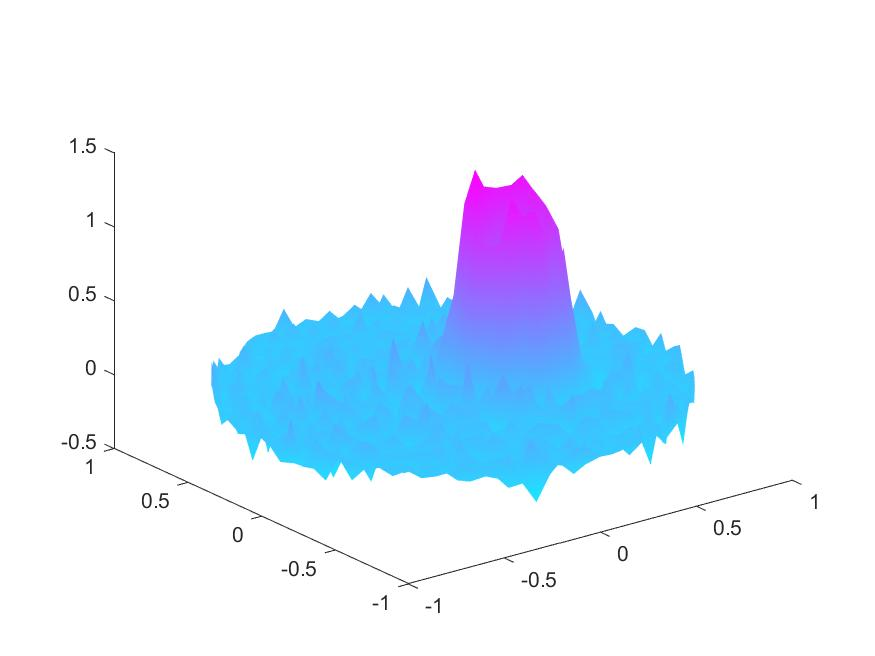
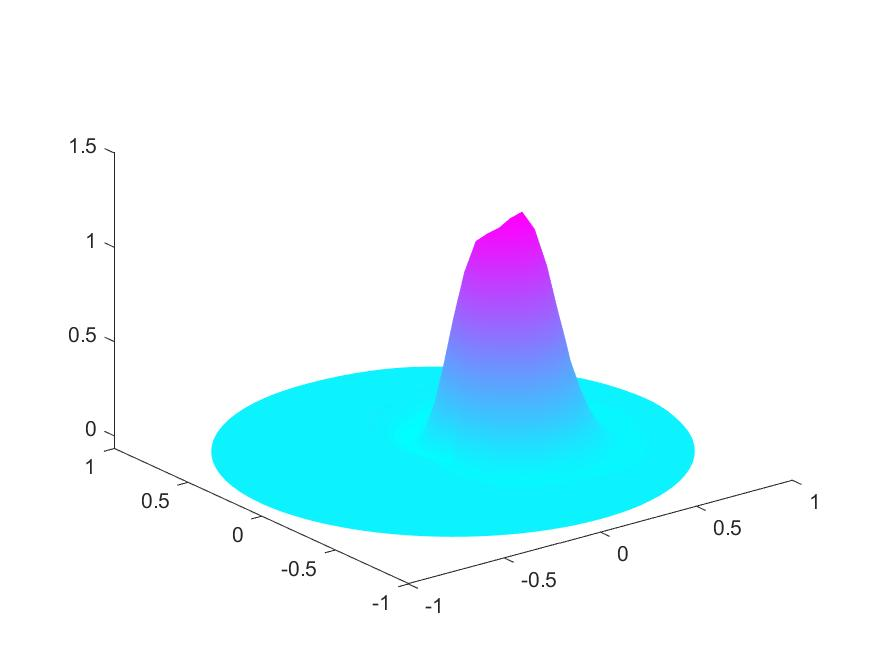
fixed LS...? or maybe not, dunno

diff --git a/FEM_Assign1/Code/MassMatrixLS.m b/FEM_Assign1/Code/MassMatrixLS.m
@@ -1,7 +1,7 @@
 function massMatrix = MassMatrixLS(p,t)
     numNodes = size(p,2);
     numTriangles = size(t,2);
-    massMatrix = sparse(numNodes,numNodes);
+    massMatrix = sparse(numNodes, numNodes);
     
     for i=1:numTriangles
         nodeIndices = t(1:3,i);
@@ -9,11 +9,11 @@ function massMatrix = MassMatrixLS(p,t)
         y=p(2,nodeIndices);
 
         [area,b,c] = HatGradients(x,y);
-    
+        
         bxmid = mean(-2*pi*y);
         bymid = mean(2*pi*x);
     
         subMatrix=ones(3,1)*(bxmid*b + bymid*c)'*area/3;
-        massMatrix(nodeIndices,nodeIndices) = massMatrix(nodeIndices,nodeIndices) + subMatrix;
+        massMatrix(nodeIndices,nodeIndices) = massMatrix(nodeIndices,nodeIndices) + subMatrix';
     end
 end

diff --git a/FEM_Assign1/Code/RunPart2.m b/FEM_Assign1/Code/RunPart2.m
@@ -1,8 +1,8 @@
 Problem11();
 close all;
-%Problem12();
+Problem12();
 close all;
-%Problem13();
+Problem13();
 close all;
 
 function Problem11()
@@ -117,9 +117,9 @@ function [U, M, p, t] = RunSimulationGLS(meshSize, InitialData)
 
     xi = CreateInitialData(p, InitialData);
 
-    delta = 1;
-    M = 0*MassMatrixGFEM(p,t) + delta*MassMatrixLS(p,t);
-    C = 0*ConvectionMatrixGFEM(p,t) + delta*ConvectionMatrixLS(p,t);
+    delta = 0.03;
+    M = MassMatrixGFEM(p,t) + delta*MassMatrixLS(p,t);
+    C = ConvectionMatrixGFEM(p,t) + delta*ConvectionMatrixLS(p,t);
 
     U = SolverCN(M, C, xi, timeStep, numIters);
 end

diff --git a/FEM_Assign1/Code/ConvectionMatrixGFEM.m b/FEM_Assign1/Code/ConvectionMatrixGFEM.m
@@ -1,7 +1,7 @@
 function convectionMatrix = ConvectionMatrixGFEM(p,t)
-    numNodes=size(p,2);
-    numTriangles=size(t,2);
-    convectionMatrix=sparse(numNodes, numNodes);
+    numNodes = size(p,2);
+    numTriangles = size(t,2);
+    convectionMatrix = sparse(numNodes, numNodes);
     
     for i=1:numTriangles
         nodeIndices = t(1:3,i);
